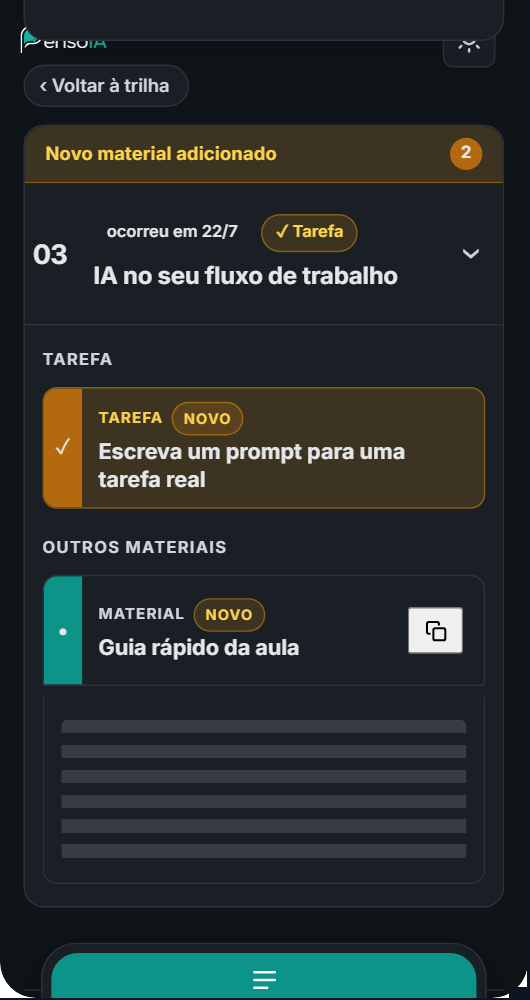
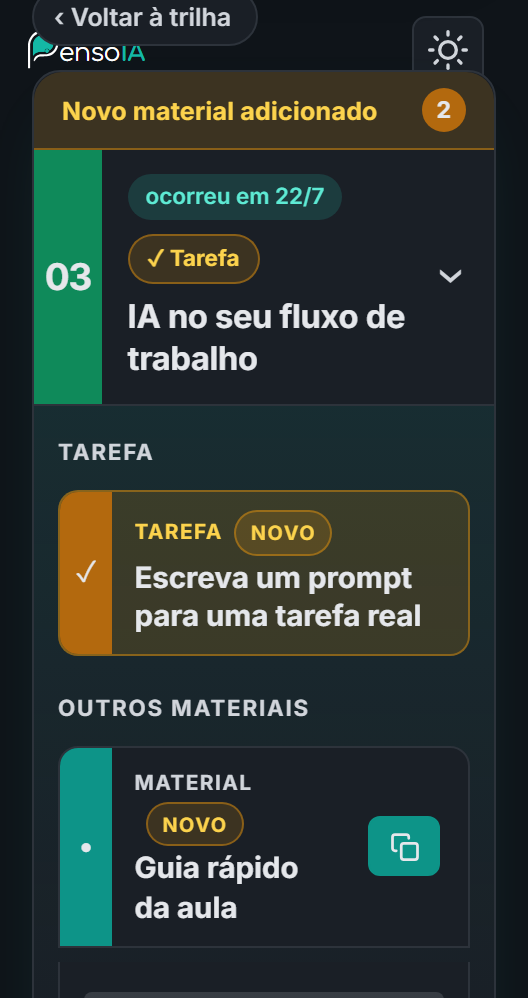
fix(landing): trilha static-reposition margin, take 3 (56/64 still overlapped header)
Wrong direction on the last two tries: a SMALLER margin means a LARGER
(more negative) pan, and I had it backwards. What looked like "hero
bleeding through" at margin 56/64 was actually .cdx-trilha-main's own
opaque top edge sitting too close to y=0 and covering part of the fixed
pensoia-header behind it, not enough of a pan to clear it. 40 pans main
far enough up that the full header (logo + back-pill) renders clean.
Recaptured both trilha stills from the corrected live preview.

Claude-Session: https://claude.ai/code/session_01CZBm2Dro7BVBaUNG2DFtS8

diff --git a/js/frame-trail.js b/js/frame-trail.js
@@ -103,7 +103,7 @@ async function showEndState() {
   if (main && row) {
     main.style.transition = 'none';
     const top = row.getBoundingClientRect().top;
-    main.style.transform = 'translateY(-' + Math.max(0, Math.round(top - 56)) + 'px)';
+    main.style.transform = 'translateY(-' + Math.max(0, Math.round(top - 40)) + 'px)';
   }
 }
 
